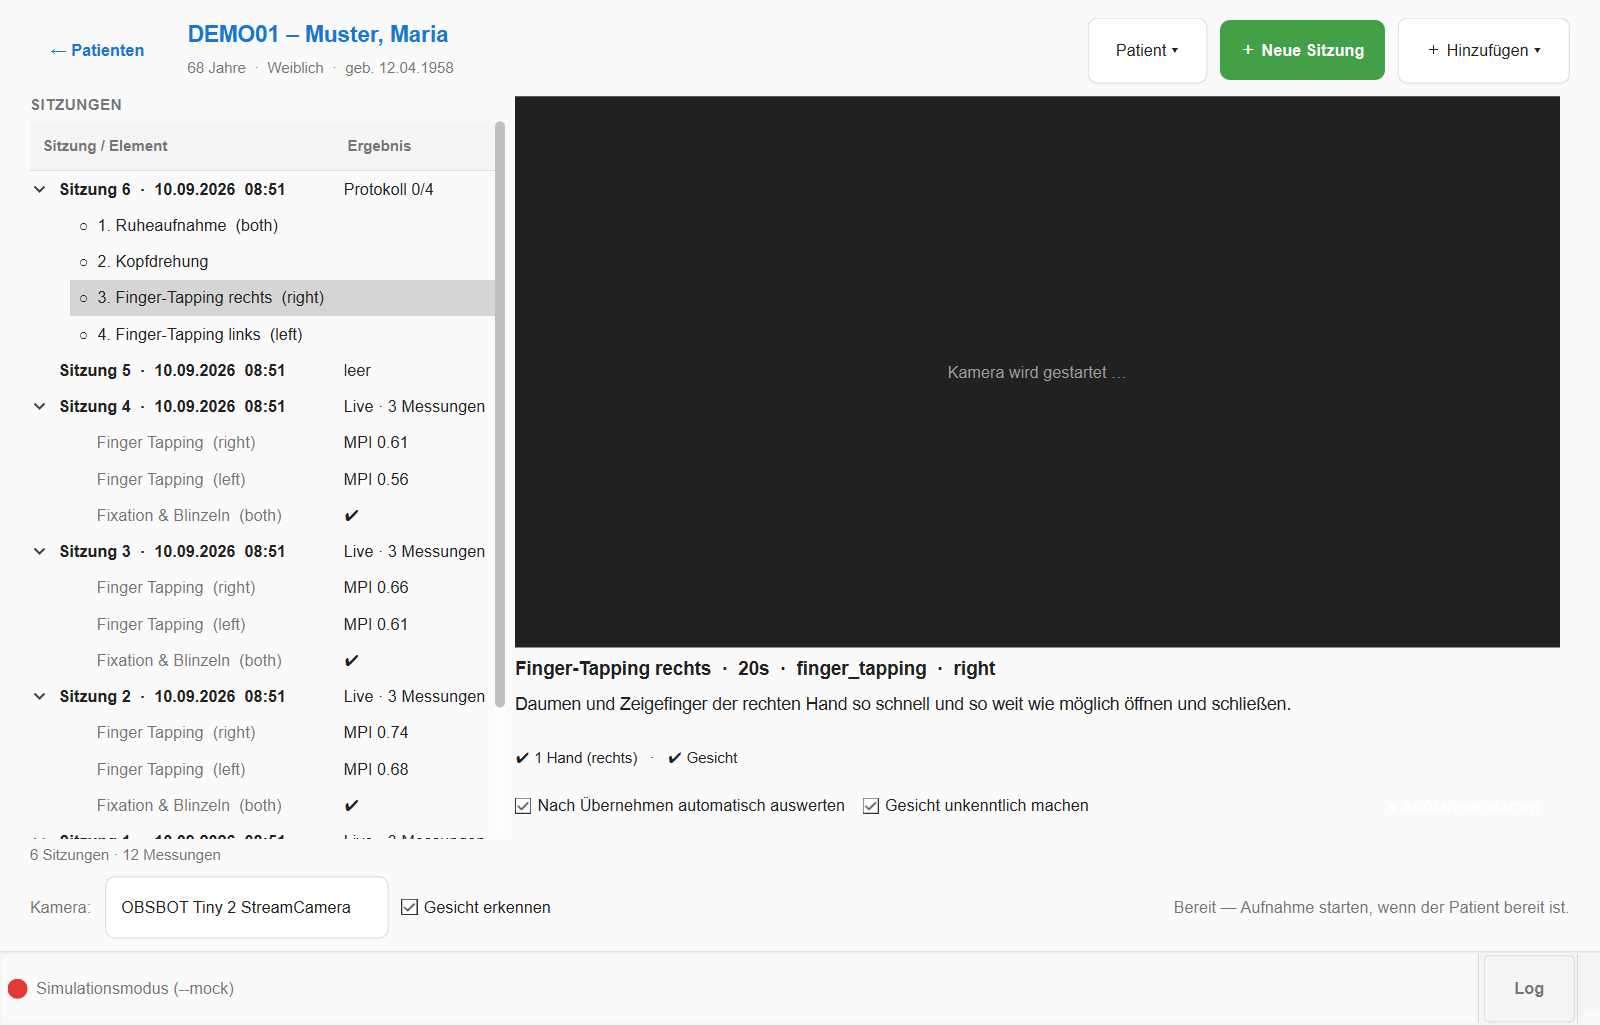
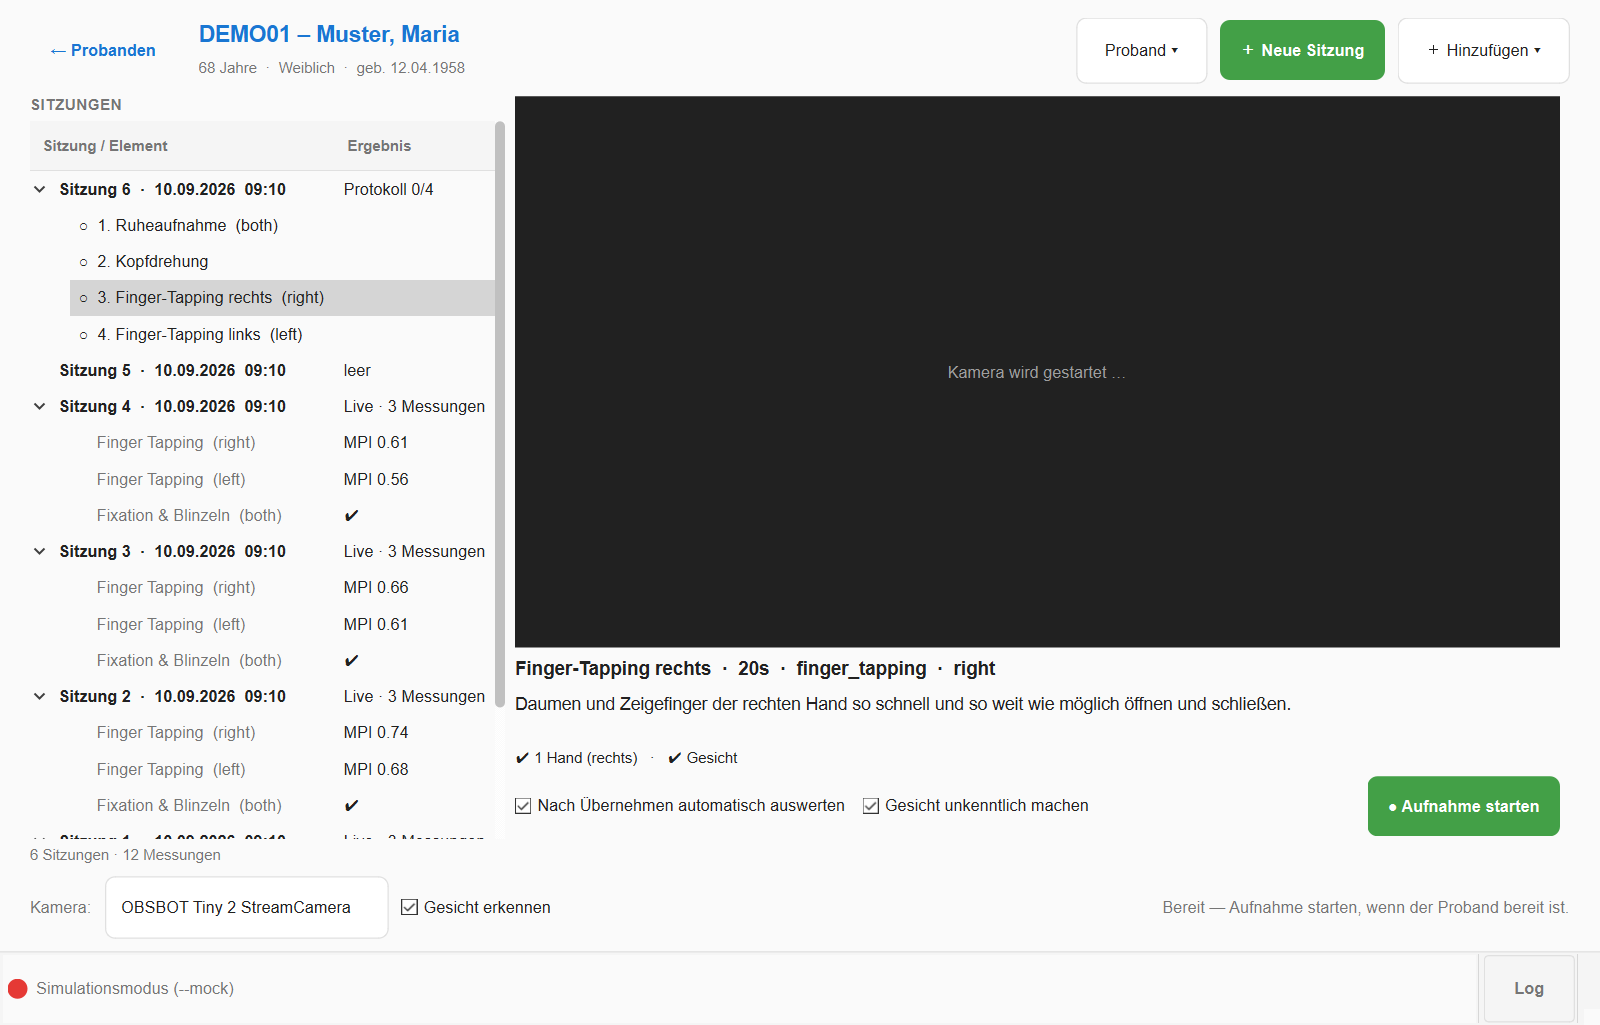
Aufnahme-Button wieder sichtbar; Wording Patient → Proband
- transparente Hintergrundregel der Scroll-Seiten auf die Seite beschraenkt
  (vererbte sich an alle Buttons, gruene Buttons wurden weiss)
- Oberflaeche, Bericht, Codebuch und Doku sprechen von Proband/Probandin;
  Code, DB-Namen und Dateinamen unveraendert; Screenshots neu

diff --git a/docs/manual.html b/docs/manual.html
@@ -82,7 +82,7 @@
   <a href="#ueberblick">Überblick</a>
   <a href="#schnellstart">Schnellstart</a>
   <a href="#quellen">Eingabequellen</a>
-  <a href="#patienten">Patienten</a>
+  <a href="#patienten">Probanden</a>
   <a href="#tests">Tests</a>
   <a href="#okulo">Augen-Tests</a>
   <a href="#ergebnisse">Ergebnisse &amp; Verlauf</a>
@@ -97,7 +97,7 @@
 <p>Motryx digitalisiert klinische Bewegungstests. Handbewegungen und Augenbewegungen
 werden kontaktlos erfasst und automatisch in quantitative Parameter übersetzt —
 live am Gerät oder nachträglich aus Handy-Videos. Alle Ergebnisse landen
-patientenbezogen in einer lokalen Datenbank und lassen sich als Verlauf über die
+probandenbezogen in einer lokalen Datenbank und lassen sich als Verlauf über die
 Zeit betrachten.</p>
 
 <table>
@@ -113,8 +113,8 @@ Zeit betrachten.</p>
 <li><b>Starten:</b> macOS <code>./start.sh</code> · Windows <code>start.ps1</code> /
     <code>start.bat</code> (legt beim ersten Mal die Python-Umgebung an).
     Ohne Sensor: <code>./start.sh --mock</code> (Simulationsmodus).</li>
-<li><b>Patient wählen</b> oder neu anlegen (Startbildschirm).</li>
-<li><b>Patient anklicken</b> — das ist bereits der Arbeitsplatz: links alle Sitzungen mit
+<li><b>Proband wählen</b> oder neu anlegen (Startbildschirm).</li>
+<li><b>Proband anklicken</b> — das ist bereits der Arbeitsplatz: links alle Sitzungen mit
     Inhalt, rechts der Arbeitsbereich. <b>„＋ Neue Sitzung"</b> legt eine Gruppe an, über
     <b>„＋ Hinzufügen"</b> kommt Inhalt hinein: Protokoll aufnehmen, einzelnes Paradigma
     oder Video importieren. Ein einzelnes Paradigma wird gefilmt, wenn es motorisch ist;
@@ -132,8 +132,8 @@ Zeit betrachten.</p>
     — Freitext plus angehängte Dateien (Fotos, PDFs). Ein 📝 im Baum zeigt, wo eine liegt.</li>
 </ol>
 
-<figure><img src="img/01_patienten.png" alt="Patientenliste">
-<figcaption>Startbildschirm: Patientenliste. Unten links „✋ Gesture Lab" (Gesten-Bibliothek),
+<figure><img src="img/01_patienten.png" alt="Probandenliste">
+<figcaption>Startbildschirm: Probandenliste. Unten links „✋ Gesture Lab" (Gesten-Bibliothek),
 oben „Über Motryx" mit Versionsnummer, unten „Tracking" für die Eingabequelle.</figcaption></figure>
 
 <h2 id="quellen">3&nbsp;· Eingabequellen</h2>
@@ -168,13 +168,13 @@ Winkel und Verhältnisse sind exakt. Für Verlaufsvergleiche derselben Hand sind
 gut geeignet; absolute Vergleiche zwischen Geräten nicht. Die App kennzeichnet alle
 betroffenen Werte automatisch.</div>
 
-<h2 id="patienten">4&nbsp;· Patienten &amp; Sessions</h2>
-<figure><img src="img/02_patient_detail.png" alt="Patienten-Detail">
-<figcaption>Patienten-Arbeitsplatz: links alle Sitzungen mit ihren Schritten — Zustand
+<h2 id="patienten">4&nbsp;· Probanden &amp; Sessions</h2>
+<figure><img src="img/02_patient_detail.png" alt="Probanden-Detail">
+<figcaption>Probanden-Arbeitsplatz: links alle Sitzungen mit ihren Schritten — Zustand
 (○ offen, ◐ aufgenommen, ✔ bestätigt), Ergebnis und 📋, wenn es in der Akte liegt —,
 rechts der Arbeitsbereich zum gewählten Element (Aufnahme, Take, Video-Schnitt).
 Rechtsklick auf einen Schritt: Details, erneut aufnehmen, neu auswerten, Paradigma/Seite
-ändern, Notiz, entfernen. Oben rechts: „Patient ▾" (Bearbeiten, Verlauf, CSV, Löschen),
+ändern, Notiz, entfernen. Oben rechts: „Proband ▾" (Bearbeiten, Verlauf, CSV, Löschen),
 „＋ Neue Sitzung", „＋ Hinzufügen".</figcaption></figure>
 <ul>
 <li><b>Symbole im Baum:</b> ○ offen · ◐ aufgenommen, noch nicht gesichtet · ✔ bestätigt (Video liegt vor);
@@ -185,7 +185,7 @@ Rechtsklick auf einen Schritt: Details, erneut aufnehmen, neu auswerten, Paradig
     Der Dialog nimmt Freitext und Dateien auf (Hinzufügen, Öffnen, Entfernen); die Dateien liegen unter
     <code>data/attachments/</code>, die Notiz in der Datenbank. „Erneut aufnehmen" eines ausgewerteten
     Schritts fragt nach und entfernt dessen Messung, damit keine Messung ohne Video zurückbleibt.</li>
-<li><b>CSV-Export</b> (Menü „Patient ▾") exportiert alle Messungen des Patienten für die Statistik.</li>
+<li><b>CSV-Export</b> (Menü „Proband ▾") exportiert alle Messungen des Probanden für die Statistik.</li>
 <li>Jede Messung speichert <b>Quelle</b> (Leap/Webcam/Video/Simulation), Dauer, Rohdaten-Verweis und —
     bei Video — ihre <b>Herkunft</b> (siehe Abschnitt 8).</li>
 </ul>
@@ -289,15 +289,15 @@ Hohle Punkte = Kamera-Quelle (≈mm-Modellskala), gefüllte = Leap.</figcaption>
 
 <h3>Exporte</h3>
 <ul>
-<li><b>📦 Export-Paket</b> („Patient ▾"): ein ZIP zur Übergabe — Bericht als HTML, PDF und
+<li><b>📦 Export-Paket</b> („Proband ▾"): ein ZIP zur Übergabe — Bericht als HTML, PDF und
     JSON (Stammdaten, Anamnese, Medikation mit LEDD, Messungen mit Kennwerten, Kurven und
     Herkunft, Notizen), die Archiv-Clips (wahlweise nur anonymisierte), Tracking-Spuren,
     Rohdaten und Anhänge, dazu ein Manifest mit Prüfsummen. Optional pseudonymisiert.</li>
 <li><b>🔬 Forschungsexport</b> (Startbildschirm): pseudonymisierte Langtabellen aller
-    Patienten als CSV — Patienten, Sitzungen mit klinischen Werten, Messungen mit Herkunft,
-    Kennwerte, klinische Items, Medikation — mit Codebuch. Die Zuordnung Pseudonym ↔ Patient
+    Probanden als CSV — Probanden, Sitzungen mit klinischen Werten, Messungen mit Herkunft,
+    Kennwerte, klinische Items, Medikation — mit Codebuch. Die Zuordnung Pseudonym ↔ Proband
     bleibt lokal auf dem Rechner. Optional Notizen und die Rohdaten/Spuren je Messung.</li>
-<li><b>CSV-Export</b> („Patient ▾"): alle Kennwerte eines Patienten breit, eine Zeile je Messung.</li>
+<li><b>CSV-Export</b> („Proband ▾"): alle Kennwerte eines Probanden breit, eine Zeile je Messung.</li>
 </ul>
 
 <h2 id="videolab">8&nbsp;· Aufnahme, Import und Auswertung</h2>
@@ -386,14 +386,14 @@ danach der Archiv-Clip.</p>
 <figure><img src="img/12_gesturelab.png" alt="Gesture Lab">
 <figcaption>Gesture Lab mit drei Bereichen: GESTEN (Referenzposen aufnehmen),
 ANALYSE (Soll/Ist-Vergleich, Gewichte), ERKENNUNG (Einzeln oder 12-Posen-Batterie).
-Kopfzeile zeigt Patient und aktive Quelle.</figcaption></figure>
+Kopfzeile zeigt Proband und aktive Quelle.</figcaption></figure>
 <ul>
-<li><b>Bibliothek aufbauen</b> (einmalig, ohne Patient): im Bereich GESTEN jede Pose
+<li><b>Bibliothek aufbauen</b> (einmalig, ohne Proband): im Bereich GESTEN jede Pose
     aufnehmen (statisch: stoppt automatisch nach 3&nbsp;s). Mit <b>⬆ Export / ⬇ Import</b>
     lässt sich die fertige Bibliothek als JSON zwischen Rechnern teilen.</li>
-<li><b>Patientenbezogene Batterie:</b> aus der <i>Patienten-Detailansicht</i> öffnen →
+<li><b>Probandenbezogene Batterie:</b> aus der <i>Probanden-Detailansicht</i> öffnen →
     ERKENNUNG → Modus „Batterie" → alle 12 Posen durchlaufen →
-    <b>💾 In Patientenakte speichern</b>. Ergebnis (Score, Ähnlichkeiten pro Pose)
+    <b>💾 In Probandenakte speichern</b>. Ergebnis (Score, Ähnlichkeiten pro Pose)
     erscheint in Matrix und Verlauf.</li>
 <li>Live-Feedback pro Finger (❌/✓) zeigt, welcher Finger von der Referenz abweicht.</li>
 </ul>

diff --git a/ui/patient_screen.py b/ui/patient_screen.py
@@ -30,7 +30,7 @@ from ui.theme import SZ
 class NewPatientDialog(QDialog):
     def __init__(self, parent=None, patient: Patient | None = None) -> None:
         super().__init__(parent)
-        self.setWindowTitle("Neuer Patient" if patient is None else "Patient bearbeiten")
+        self.setWindowTitle("Neuer Proband" if patient is None else "Proband bearbeiten")
         self.setMinimumWidth(460)
         self.patient = patient or Patient()
 
@@ -40,7 +40,7 @@ class NewPatientDialog(QDialog):
 
         self.code_input = QLineEdit(self.patient.patient_code)
         self.code_input.setPlaceholderText("z.B. PD001 (Pflichtfeld)")
-        layout.addRow("Patienten-ID", self.code_input)
+        layout.addRow("Probanden-ID", self.code_input)
 
         self.last_name_input = QLineEdit(self.patient.last_name)
         layout.addRow("Nachname", self.last_name_input)
@@ -169,12 +169,12 @@ class PatientScreen(QWidget):
         search_row.setSpacing(10)
 
         self.search_input = QLineEdit()
-        self.search_input.setPlaceholderText("Patient suchen...")
+        self.search_input.setPlaceholderText("Proband suchen...")
         self.search_input.setFixedHeight(SZ.INPUT_H)
         self.search_input.textChanged.connect(self._on_search)
         search_row.addWidget(self.search_input)
 
-        self.new_button = QPushButton("+ Neuer Patient")
+        self.new_button = QPushButton("+ Neuer Proband")
         self.new_button.setProperty("cssClass", "accent")
         self.new_button.setFixedWidth(180)
         self.new_button.setFixedHeight(SZ.BTN_H)
@@ -229,7 +229,7 @@ class PatientScreen(QWidget):
         lab_btn.setFixedWidth(150)
         lab_btn.setFixedHeight(SZ.BTN_H)
         lab_btn.setToolTip("Gesten-Bibliothek pflegen (Referenzposen aufnehmen). "
-                           "Patientenbezogene Batterie: aus der Patienten-Detailansicht öffnen.")
+                           "Probandenbezogene Batterie: aus der Probanden-Detailansicht öffnen.")
         lab_btn.clicked.connect(lambda: self.main_window.show_gesture_lab("patients"))
         bottom_bar.addWidget(lab_btn)
 
@@ -237,7 +237,7 @@ class PatientScreen(QWidget):
         research_btn.setProperty("cssClass", "flat")
         research_btn.setFixedWidth(190)
         research_btn.setFixedHeight(SZ.BTN_H)
-        research_btn.setToolTip("Pseudonymisierte Langtabellen aller Patienten mit Codebuch "
+        research_btn.setToolTip("Pseudonymisierte Langtabellen aller Probanden mit Codebuch "
                                 "(CSV) für die statistische Auswertung")
         research_btn.clicked.connect(self._on_research_export)
         bottom_bar.addWidget(research_btn)

diff --git a/ui/patient_workbench.py b/ui/patient_workbench.py
@@ -191,7 +191,7 @@ class PatientWorkbench(QWidget):
 
         # header: back · patient · actions
         head = QHBoxLayout()
-        back = QPushButton("← Patienten")
+        back = QPushButton("← Probanden")
         back.setProperty("cssClass", "flat")
         back.clicked.connect(lambda: self.main_window.show_patient_screen())
         head.addWidget(back)
@@ -207,7 +207,7 @@ class PatientWorkbench(QWidget):
         head.addLayout(name_col, 1)
 
         self._patient_btn = QToolButton()
-        self._patient_btn.setText("Patient ▾")
+        self._patient_btn.setText("Proband ▾")
         self._patient_btn.setProperty("cssClass", "menu")
         self._patient_btn.setPopupMode(QToolButton.ToolButtonPopupMode.InstantPopup)
         pm = QMenu(self._patient_btn)
@@ -219,7 +219,7 @@ class PatientWorkbench(QWidget):
             a.triggered.connect(lambda _c=False, f=cb: f())
             pm.addAction(a)
         pm.addSeparator()
-        a = QAction("Patient löschen…", self)
+        a = QAction("Proband löschen…", self)
         a.triggered.connect(lambda _c=False: self._on_delete_patient())
         pm.addAction(a)
         self._patient_btn.setMenu(pm)
@@ -1294,7 +1294,7 @@ class PatientWorkbench(QWidget):
             return
         dlg = NewPatientDialog(self, patient=self._patient)
         dlg.code_input.setReadOnly(True)
-        dlg.setWindowTitle("Patient bearbeiten")
+        dlg.setWindowTitle("Proband bearbeiten")
         if dlg.exec() == QDialog.DialogCode.Accepted:
             conn = get_db()
             save_patient(conn, dlg.patient)
@@ -1357,8 +1357,8 @@ class PatientWorkbench(QWidget):
             return
         total = sum(len(v) for v in self._measurements.values()) + len(self._orphans)
         if QMessageBox.question(
-                self, "Patient löschen",
-                f"Patient '{self._patient.display_name}' wirklich löschen?\n\n"
+                self, "Proband löschen",
+                f"Proband '{self._patient.display_name}' wirklich löschen?\n\n"
                 f"{len(self._sessions)} Sitzung(en), {total} Messung(en) und alle "
                 "zugehörigen Rohdaten werden unwiderruflich gelöscht.",
                 QMessageBox.StandardButton.Yes | QMessageBox.StandardButton.No) \

diff --git a/ui/video_lab_screen.py b/ui/video_lab_screen.py
@@ -293,7 +293,7 @@ class VideoLabScreen(QWidget):
         self._mirror_cb.setToolTip(
             "Dieses Video horizontal spiegeln.\n"
             "Nötig, wenn es mit einer Frontkamera aufgenommen wurde und der "
-            "Patient seitenverkehrt erscheint — sonst wird die linke Hand als "
+            "Proband seitenverkehrt erscheint — sonst wird die linke Hand als "
             "rechte erkannt.\n"
             "Gilt für dieses Video und wird mit der Video-Session gespeichert.")
         self._mirror_cb.stateChanged.connect(self._on_mirror_changed)
@@ -343,7 +343,8 @@ class VideoLabScreen(QWidget):
         bottom.addLayout(left, 1)
 
         page = QWidget()
-        page.setStyleSheet("background: transparent;")
+        page.setObjectName("scrollPage")
+        page.setStyleSheet("#scrollPage { background: transparent; }")
         right = QVBoxLayout(page)
         right.setContentsMargins(0, 0, 8, 0)
         right.addWidget(self._section("Auswertung"))
@@ -531,7 +532,7 @@ class VideoLabScreen(QWidget):
     # ── video loading ─────────────────────────────────────────────
     def _on_load_video(self) -> None:
         if self.session is None:
-            QMessageBox.warning(self, "VideoLab", "Kein Patient ausgewählt.")
+            QMessageBox.warning(self, "VideoLab", "Kein Proband ausgewählt.")
             return
         path, _ = QFileDialog.getOpenFileName(self, "Video auswählen", "", video_filter())
         if not path:

diff --git a/ui/gesture_lab_detect.py b/ui/gesture_lab_detect.py
@@ -219,7 +219,7 @@ class DetectPanel(QWidget):
         self.summary_label.setVisible(False)
         right_layout.addWidget(self.summary_label)
 
-        self.save_btn = QPushButton("💾 In Patientenakte speichern")
+        self.save_btn = QPushButton("💾 In Probandenakte speichern")
         self.save_btn.setProperty("cssClass", "accent")
         self.save_btn.setFixedHeight(SZ.BTN_H)
         self.save_btn.setVisible(False)
@@ -624,13 +624,13 @@ class DetectPanel(QWidget):
         patient = getattr(self.lab_screen, "patient", None)
         tested = [r for r in self._battery_results if r[1] != "ÜBERSPRUNGEN"]
         if patient is not None and patient.id and tested and not self._battery_saved:
-            self.save_btn.setText(f"💾 In Patientenakte speichern ({patient.display_name})")
+            self.save_btn.setText(f"💾 In Probandenakte speichern ({patient.display_name})")
             self.save_btn.setVisible(True)
         elif patient is None or not getattr(patient, "id", None):
             self.summary_label.setText(
                 self.summary_label.text()
-                + "\n\nℹ Kein Patient gewählt — zum Speichern das Gesture Lab "
-                  "aus der Patienten-Detailansicht öffnen.")
+                + "\n\nℹ Kein Proband gewählt — zum Speichern das Gesture Lab "
+                  "aus der Probanden-Detailansicht öffnen.")
 
     def _battery_features(self) -> dict[str, float]:
         """Aggregate the battery run into a numeric feature dict (DB/Verlauf)."""

diff --git a/ui/export_dialog.py b/ui/export_dialog.py
@@ -152,10 +152,10 @@ class ResearchExportDialog(QDialog):
         lay = QVBoxLayout(self)
         lay.setContentsMargins(20, 16, 20, 16)
         lay.setSpacing(10)
-        _head(lay, "Forschungsexport (alle Patienten)",
-              "Pseudonymisierte Langtabellen für R/pandas: Patienten, Sitzungen mit klinischen "
+        _head(lay, "Forschungsexport (alle Probanden)",
+              "Pseudonymisierte Langtabellen für R/pandas: Probanden, Sitzungen mit klinischen "
               "Werten, Messungen mit Herkunft, Kennwerte, klinische Items, Medikation — "
-              "dazu ein Codebuch. Die Zuordnung Pseudonym ↔ Patient bleibt lokal "
+              "dazu ein Codebuch. Die Zuordnung Pseudonym ↔ Proband bleibt lokal "
               "(data/pseudonyms.json).")
         self.cb_notes = QCheckBox("Notizen beilegen (Freitext, kann Namen enthalten)")
         self.cb_signals = QCheckBox("Rohdaten und Tracking-Spuren beilegen (signals/)")
@@ -199,7 +199,7 @@ class ResearchExportDialog(QDialog):
             conn.close()
             QApplication.restoreOverrideCursor()
         t = self.result_info["tables"]
-        self._status.setText(f"✔ {t['patients']} Patienten, {t['visits']} Sitzungen, "
+        self._status.setText(f"✔ {t['patients']} Probanden, {t['visits']} Sitzungen, "
                              f"{t['measurements']} Messungen, {t['features_long']} Kennwerte, "
                              f"{t['clinical_long']} klinische Werte → {dest}")
         self.accept()

diff --git a/ui/recording_pane.py b/ui/recording_pane.py
@@ -104,7 +104,8 @@ class RecordingPane(QWidget):
         self._scroll.setHorizontalScrollBarPolicy(Qt.ScrollBarPolicy.ScrollBarAlwaysOff)
         self._scroll.setStyleSheet("QScrollArea { background: transparent; }")
         page = QWidget()
-        page.setStyleSheet("background: transparent;")
+        page.setObjectName("scrollPage")
+        page.setStyleSheet("#scrollPage { background: transparent; }")
         self._scroll.setWidget(page)
         outer.addWidget(self._scroll)
         root = QVBoxLayout(page)
@@ -342,7 +343,7 @@ class RecordingPane(QWidget):
             self._stop_overlay()
 
         if phase == IDLE and step is not None:
-            self._status("Bereit — Aufnahme starten, wenn der Patient bereit ist."
+            self._status("Bereit — Aufnahme starten, wenn der Proband bereit ist."
                          if self._device is not None else
                          "Keine Kamera — Aufnahme nicht möglich.", self._device is None)
         elif phase == REVIEW:

diff --git a/export/research.py b/export/research.py
@@ -216,7 +216,7 @@ def codebook(forms) -> str:
     from ui.feature_meta import FEATURE_META
     from app_settings import APP_VERSION
     lines = [f"# Codebuch — Motryx Forschungsexport (App {APP_VERSION})", "",
-             "Alle Tabellen sind pseudonymisiert: `pseudonym` ist die stabile Kennung eines Patienten "
+             "Alle Tabellen sind pseudonymisiert: `pseudonym` ist die stabile Kennung eines Probanden "
              "(Zuordnung nur lokal in `data/pseudonyms.json`). Zeiten ISO 8601, Dezimalpunkt.", "",
              "## patients.csv", "",
              "| Variable | Bedeutung |", "|---|---|",

diff --git a/ui/main_window.py b/ui/main_window.py
@@ -483,7 +483,7 @@ class MotryxMainWindow(QMainWindow):
 
     def select_patient(self, patient: Patient) -> None:
         """Show patient detail screen with session history."""
-        log.info("Patient ausgewählt: %s (ID %s)", patient.patient_code, patient.id)
+        log.info("Proband ausgewählt: %s (ID %s)", patient.patient_code, patient.id)
         self.current_patient = patient
         self.current_session = None
         self.patient_detail.set_patient(patient)

diff --git a/ui/gesture_lab_screen.py b/ui/gesture_lab_screen.py
@@ -124,7 +124,7 @@ class GestureLabScreen(QWidget):
         src = {"leap": "Leap", "webcam": "Kamera", "mock": "Simulation"}.get(
             source_kind(self.capture), "?")
         p = self.patient
-        who = p.display_name if p is not None else "kein Patient (nur Bibliothek)"
+        who = p.display_name if p is not None else "kein Proband (nur Bibliothek)"
         self._context_lbl.setText(f"{who}  ·  Quelle: {src}")
 
     def _build_panels(self) -> None:

diff --git a/ui/trend_dialog.py b/ui/trend_dialog.py
@@ -154,5 +154,5 @@ class TrendDialog(QDialog):
         note = f"{n} Messung{'en' if n != 1 else ''}."
         if any_estimated:
             note += ("  Hohle Punkte: Kamera-Quelle (Webcam/Video) — mm-Werte sind "
-                     "Modellschätzungen, innerhalb desselben Patienten vergleichbar.")
+                     "Modellschätzungen, innerhalb desselben Probanden vergleichbar.")
         self._note.setText(note)

diff --git a/tests/ui/test_export_dialogs.py b/tests/ui/test_export_dialogs.py
@@ -33,7 +33,7 @@ def test_research_dialog_writes_the_tables(app, workbench, tmp_path):
     dlg._run()
     assert dlg.result() == 1
     assert (dest / "measurements.csv").is_file() and (dest / "codebook.md").is_file()
-    assert "1 Patienten" in dlg._status.text()
+    assert "1 Probanden" in dlg._status.text()
 
 
 def test_export_entries_exist_in_menus(app, workbench):
